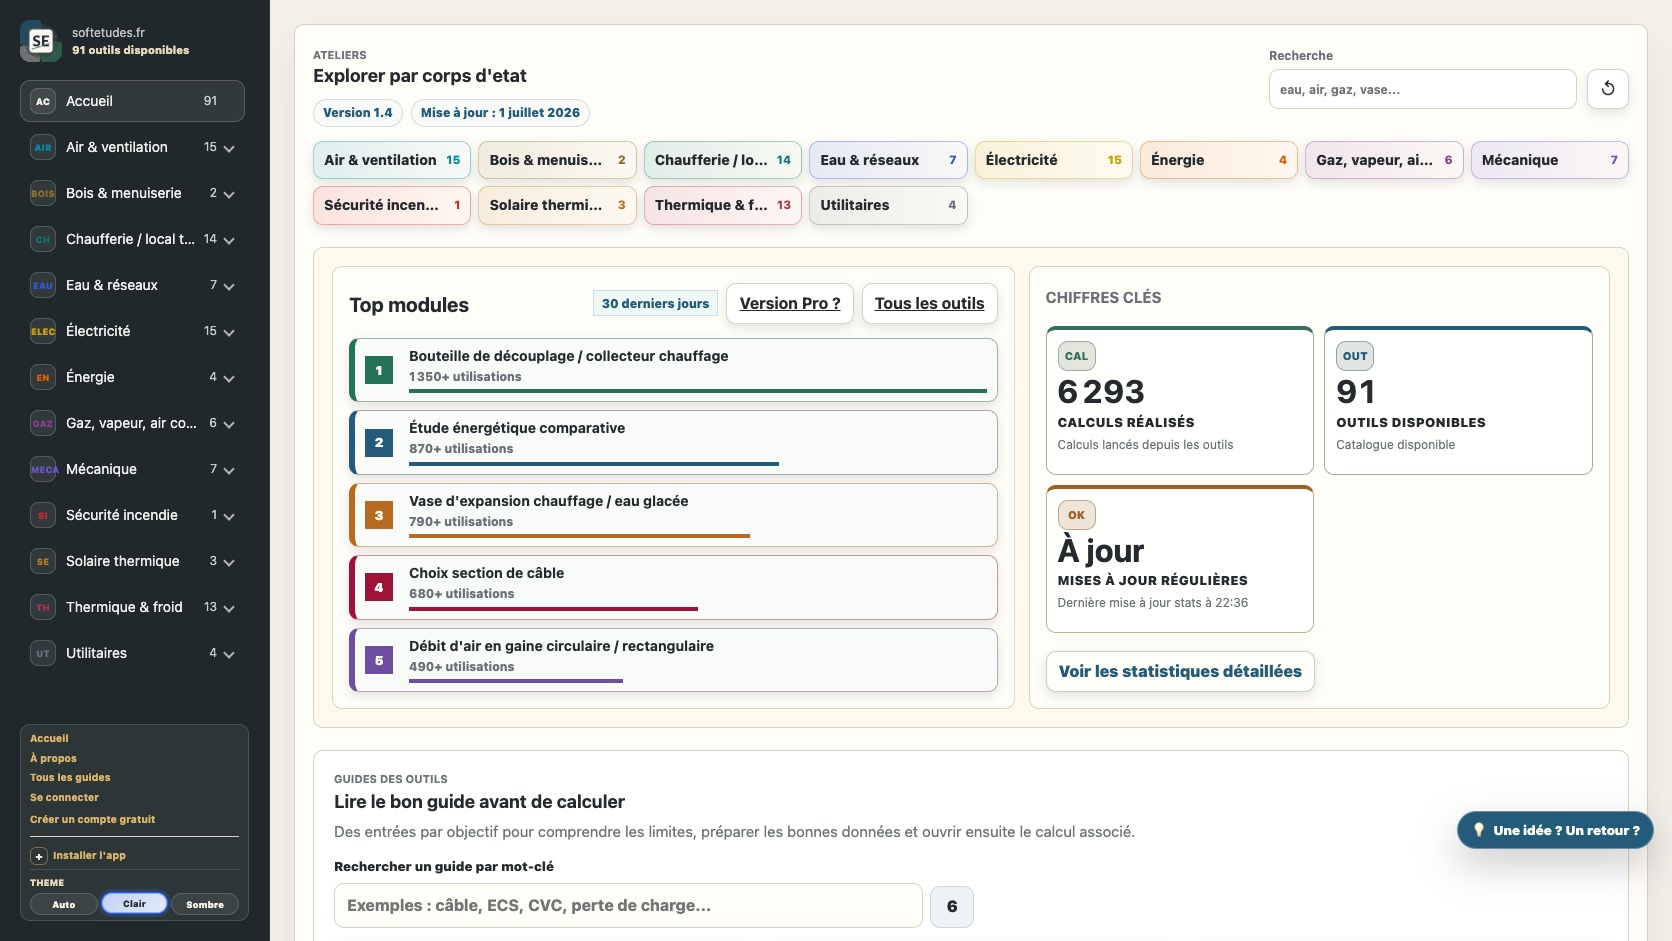
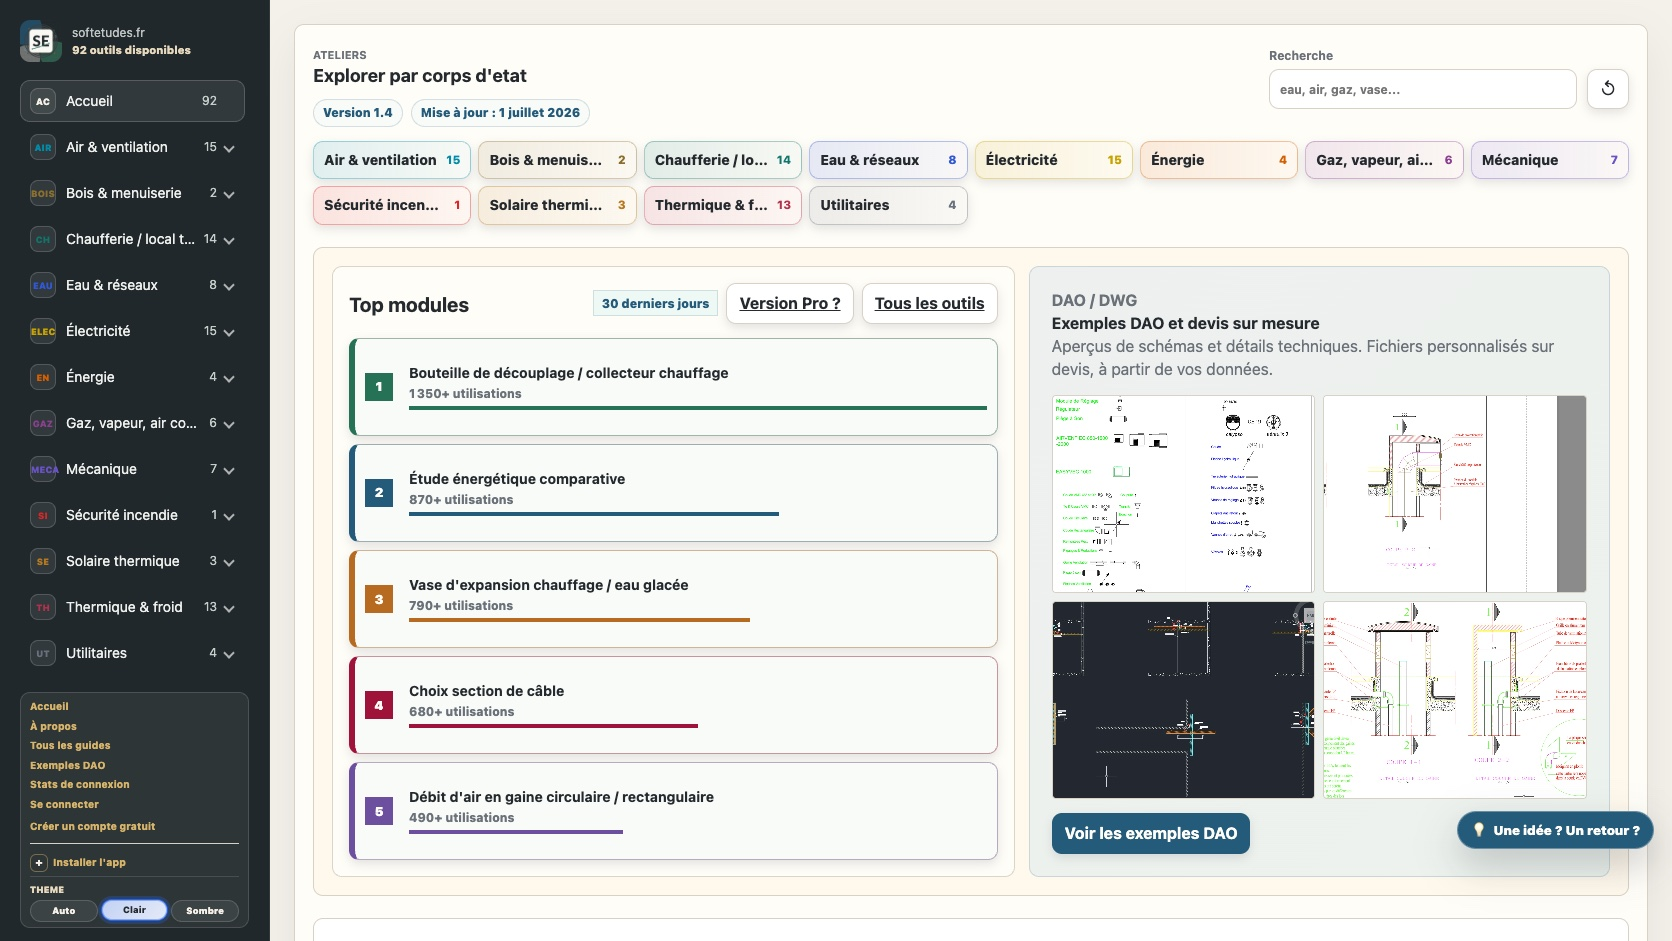
Update soft etudes portfolio image

Changed region(s): [[0.1866, 0.3082, 0.9641, 0.9862], [0.0, 0.7396, 0.1555, 0.9862], [0.0622, 0.0308, 0.1244, 0.0616]]

diff --git a/index.html b/index.html
@@ -3053,7 +3053,7 @@
 
             <div class="portfolio-grid">
                 <article class="portfolio-card">
-                    <img src="assets/portfolio/soft-etudes-note-calcul.jpg?v=20260701" alt="Interface softetudes.fr avec catalogue de modules et calculateur métier">
+                    <img src="assets/portfolio/soft-etudes-note-calcul.jpg?v=20260704" alt="Interface softetudes.fr avec catalogue de modules et calculateur métier">
                     <div class="portfolio-card-body">
                         <p class="project-label">Application métier / notes de calcul</p>
                         <h3><a href="https://softetudes.fr/" target="_blank" rel="noopener noreferrer">softetudes.fr</a>, outil web de calculs techniques</h3>
